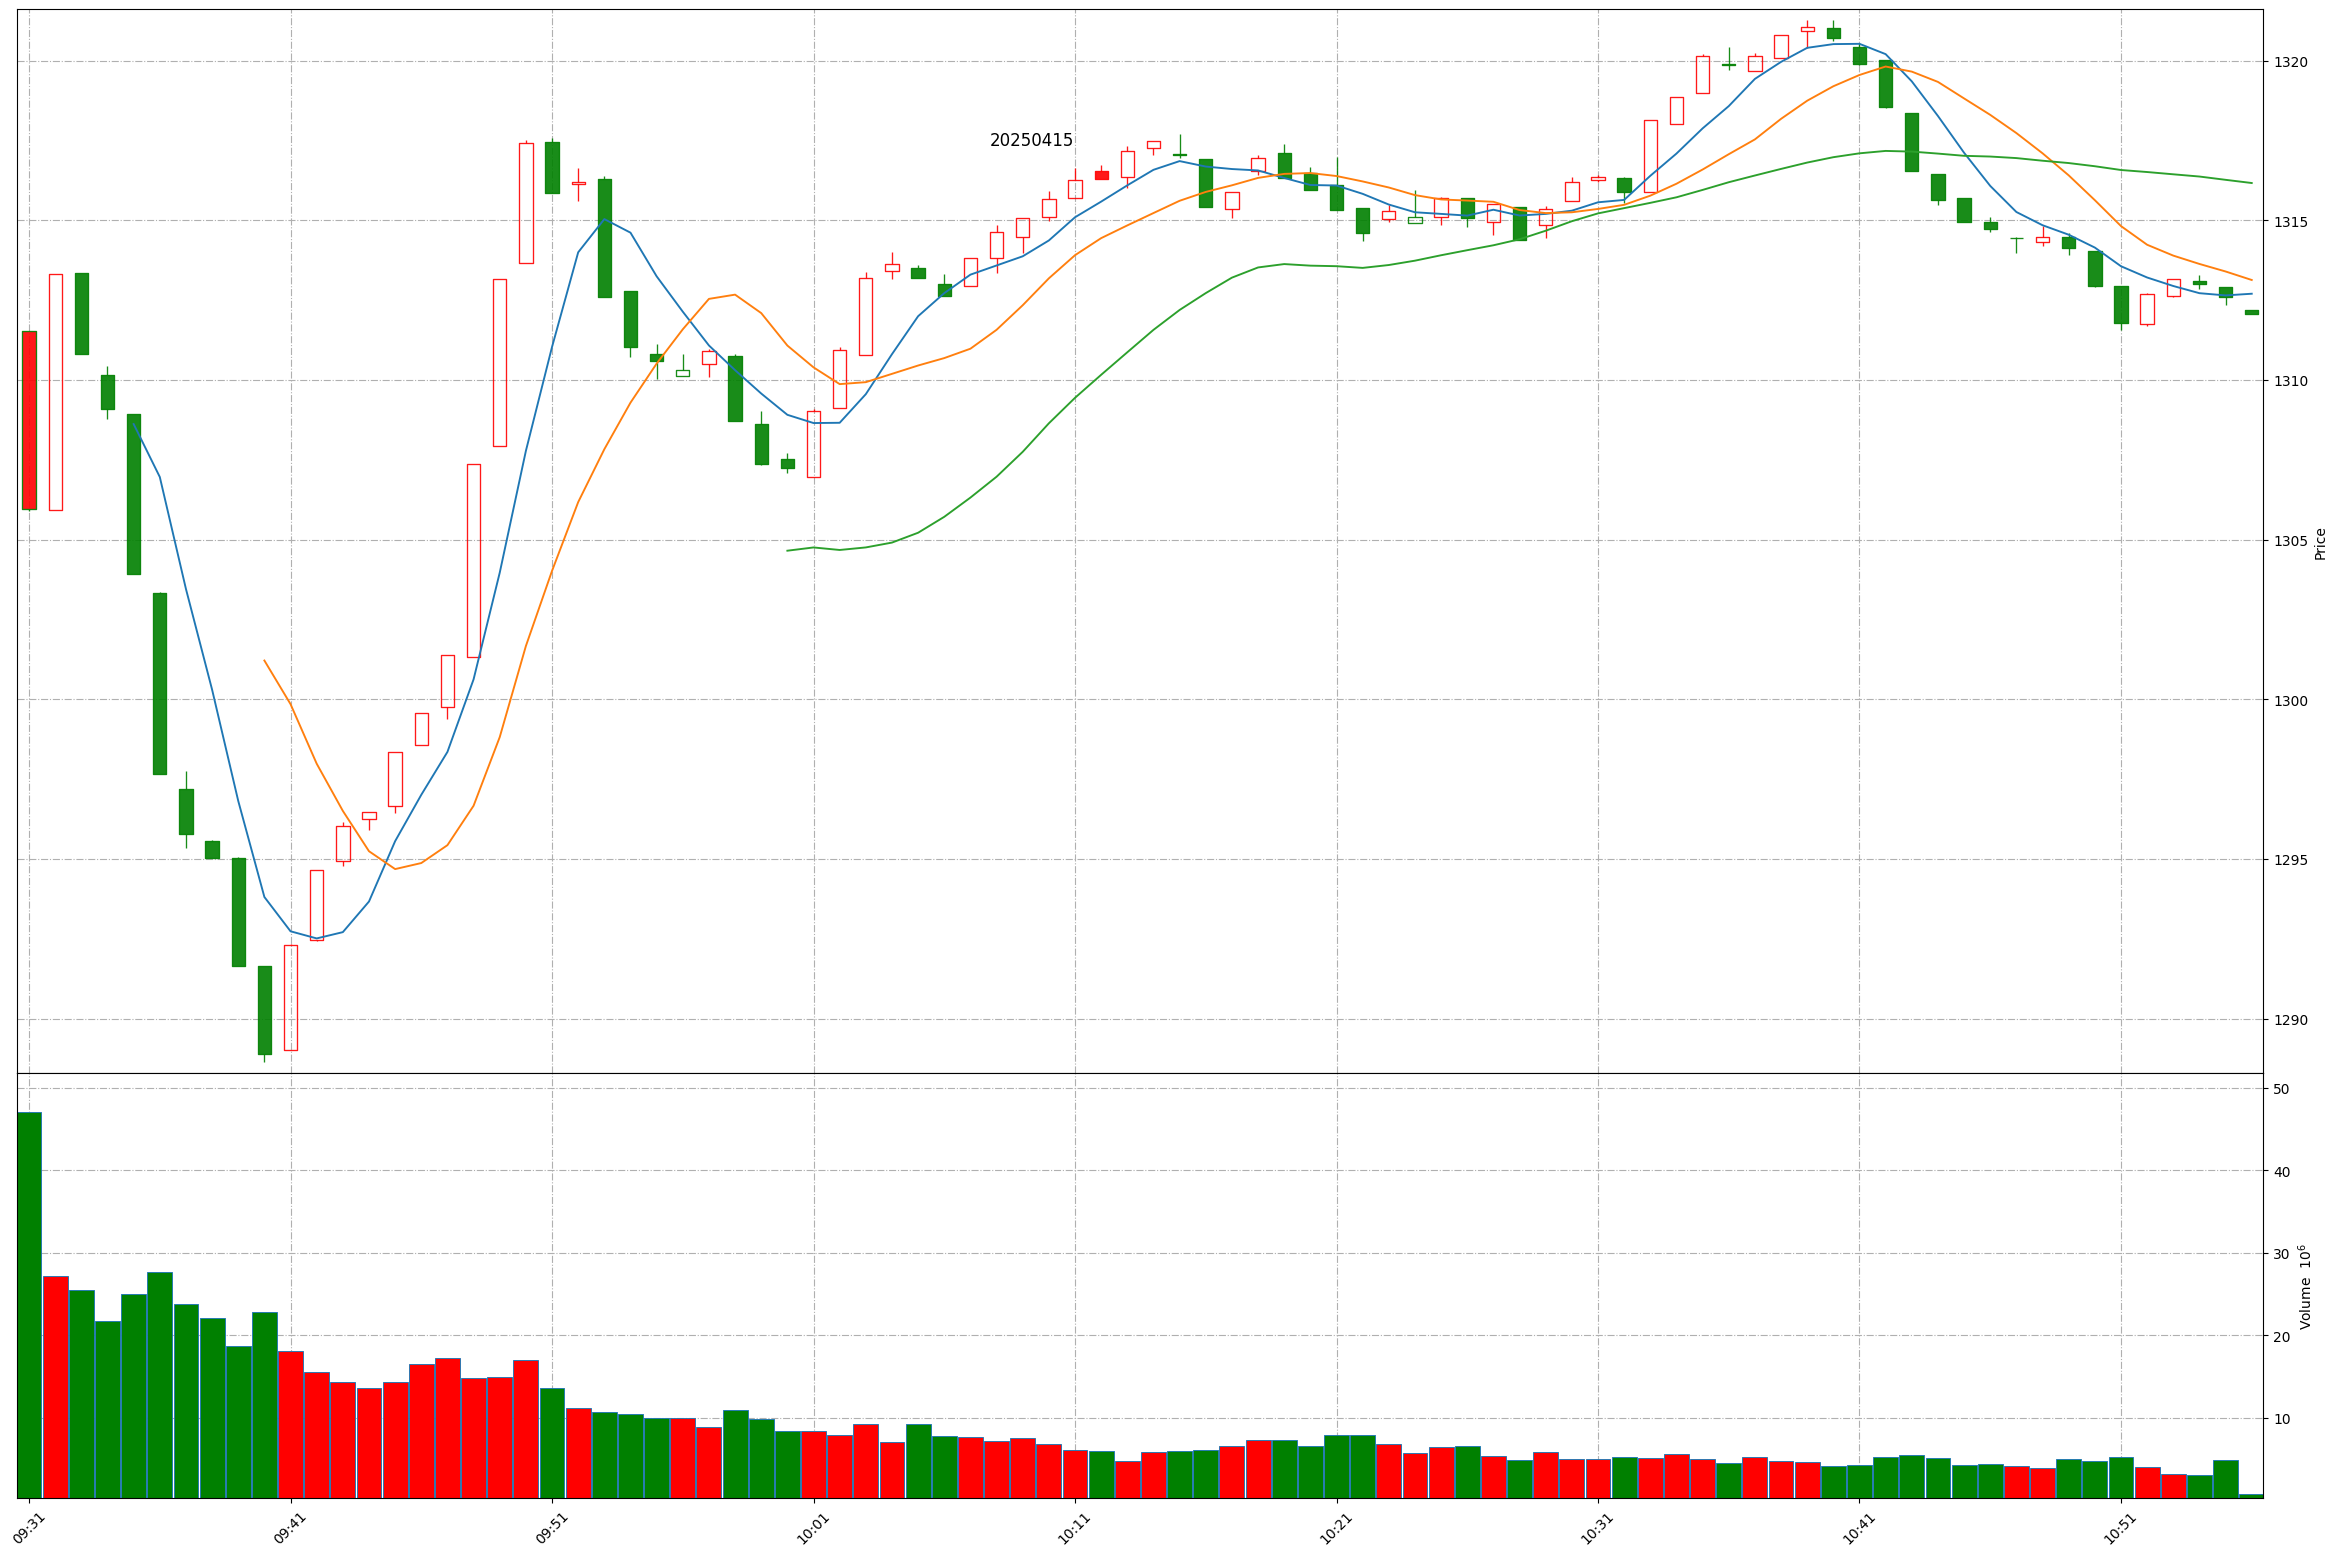
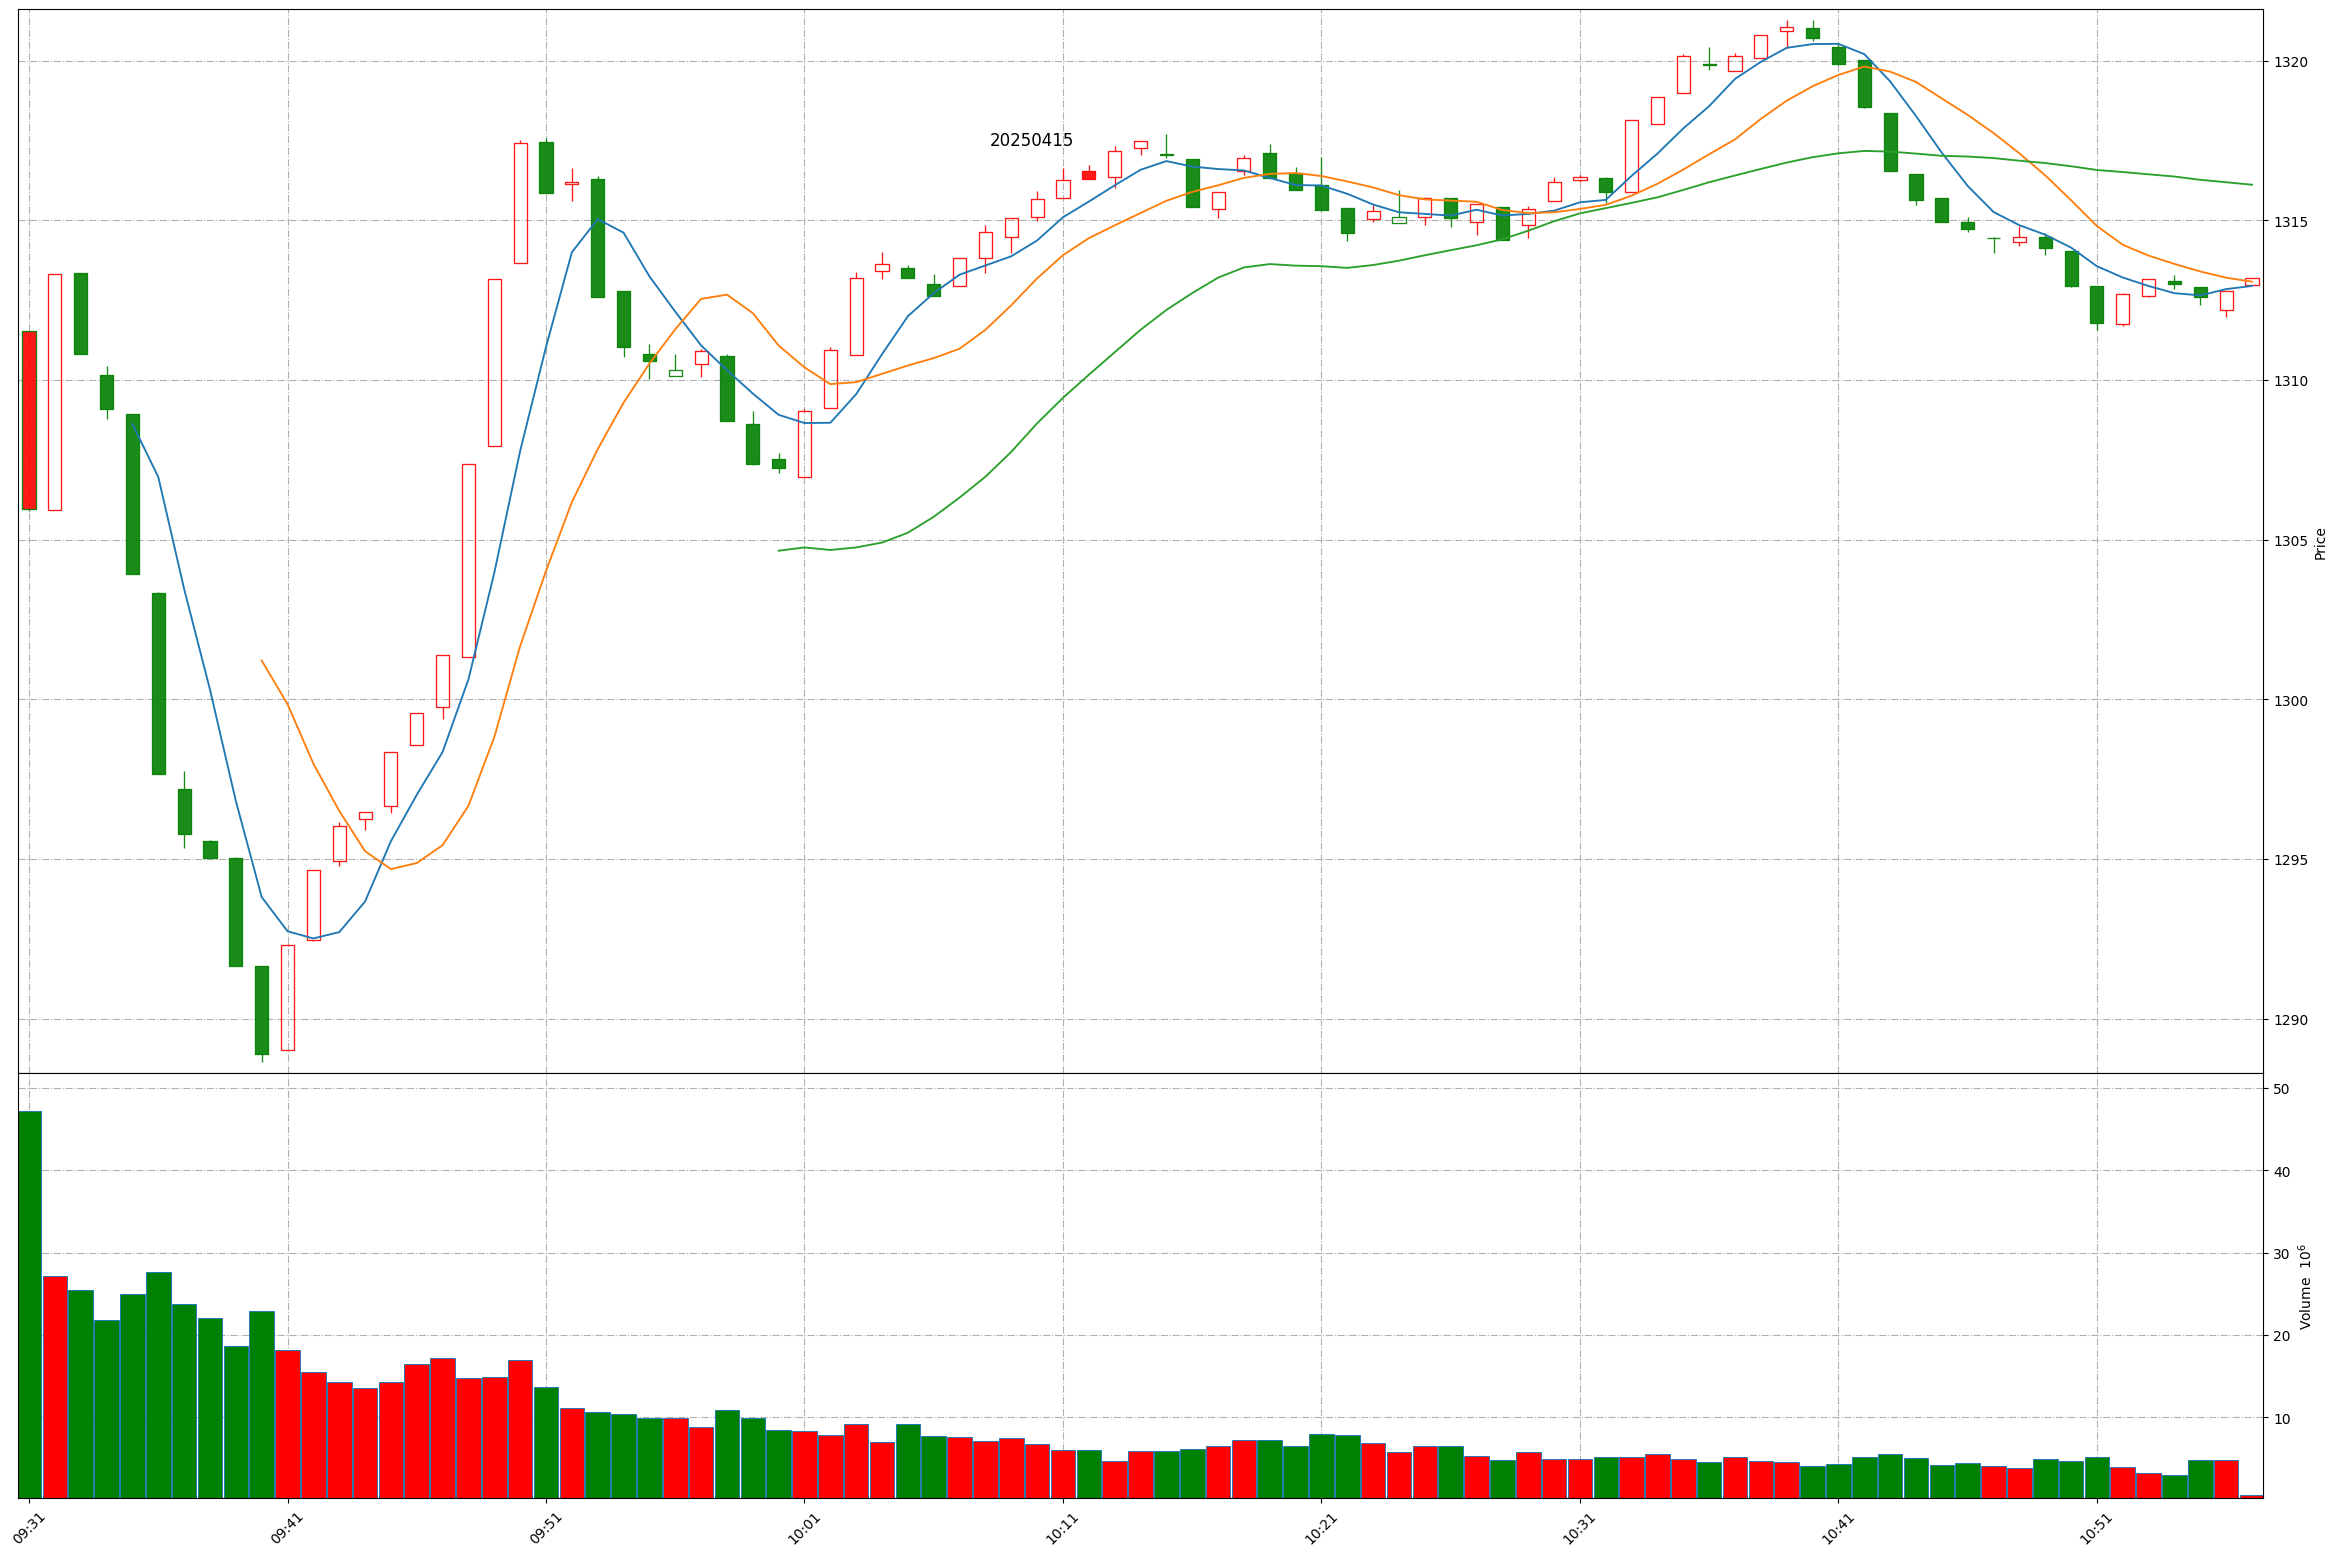
Github action update at 2025-04-15 10:56:17.

diff --git a/README.md b/README.md
@@ -1,11 +1,11 @@
 
 # Daily-A-share-market-quotes 每日 A 股指数（5min 更新）- 20250415
 
-### 上证指数 20250415 10:55
+### 上证指数 20250415 10:56
 ![](./fig/2025/4/20250415-sh000001.png)
 
-### 深证成指 20250415 10:55
+### 深证成指 20250415 10:56
 ![](./fig/2025/4/20250415-sz399001.png)
 
-### 北证50 20250415 10:55
+### 北证50 20250415 10:56
 ![](./fig/2025/4/20250415-bj899050.png)
